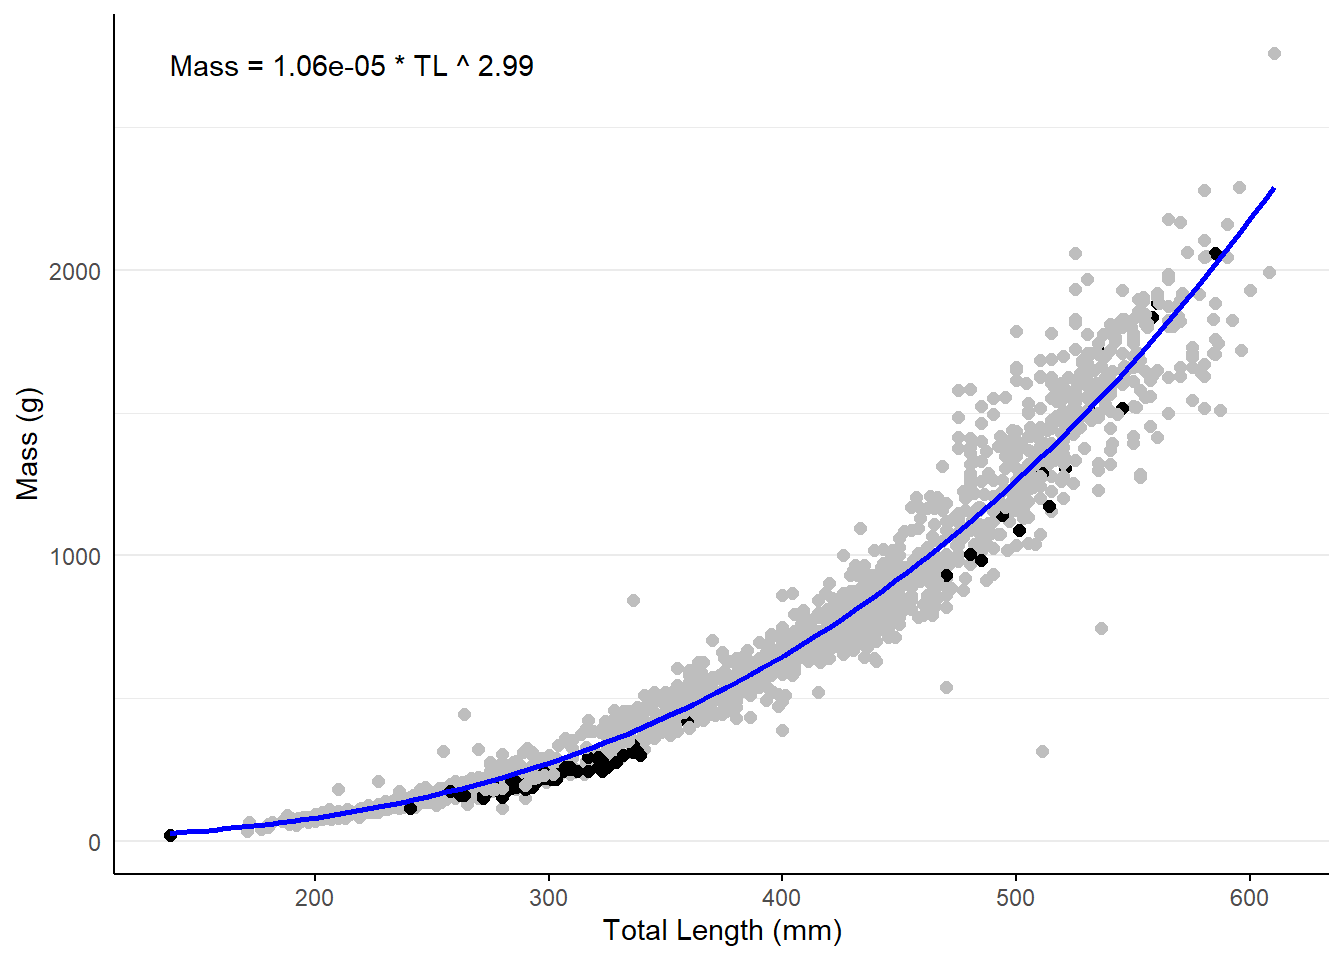
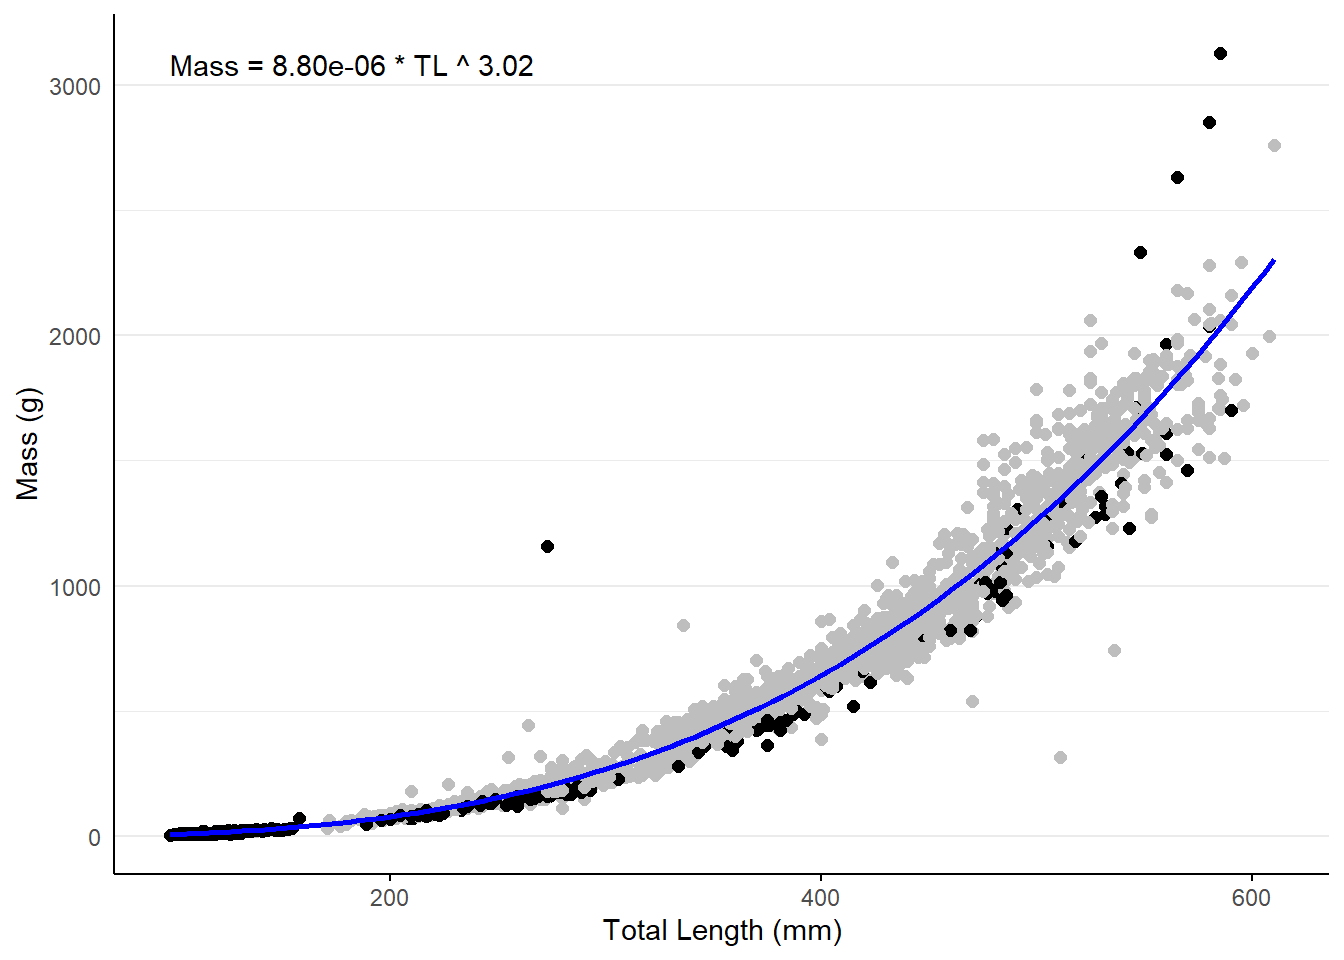
Added new harvest and stocking data for Yuma Cove backwater

diff --git a/BackwaterAnalysis.html b/BackwaterAnalysis.html
@@ -71,12 +71,12 @@ ul.task-list li input[type="checkbox"] {
 
 <section id="introduction" class="level2">
 <h2 class="anchored" data-anchor-id="introduction">Introduction</h2>
-<p>This summary analysis for Yuma Cove backwater is auto-generated and results stated within should be considered preliminary. These results are based on an analysis of stocking, capture, and PIT scanning records starting on 2013-01-01 and ending on 2025-04-25. Several approaches are used to assess the overall status of the population in the backwater. Known survival analysis provides a detailed fish by fish accounting of the fish that are known to be alive in the backwater based on PIT scanning. In backwaters with nearly continuous PIT scanning, these known survivor numbers should be no less than 95% of the actual PIT tagged population, as all fish are provided at a minimum 60 days of PIT scanning regardless of tagging date. Backwater sampling events are used to evaluate recruitment, size class distribution, and proportion of tagged to untagged fish in the backwater. The tagged to untagged proportion is used in conjunction with the known survival analysis to provide point estimates of the adult population size. The biomass of the most recent sampling event is estimated based on capture records and a length-weight relationship established from all backwater capture data. Any reduction of biomass through harvest or mortality is assessed through PIT scanning conducted after the most recent autumn harvest.</p>
+<p>This summary analysis for Yuma Cove backwater is auto-generated and results stated within should be considered preliminary. These results are based on an analysis of stocking, capture, and PIT scanning records starting on 2013-01-01 and ending on 2025-04-25. Several approaches are used to assess the overall status of the population in the backwater. Known survival analysis provides a detailed fish by fish accounting of the fish that are known to be alive in the backwater based on PIT scanning. In backwaters with nearly continuous PIT scanning, these known survivor numbers should be no less than 95% of the actual PIT tagged population, as all fish are provided at a minimum 90 days of PIT scanning regardless of tagging date. Backwater sampling events are used to evaluate recruitment, size class distribution, and proportion of tagged to untagged fish in the backwater. The tagged to untagged proportion is used in conjunction with the known survival analysis to provide point estimates of the adult population size. The biomass of the most recent sampling event is estimated based on capture records and a length-weight relationship established from all backwater capture data. Any reduction of biomass through harvest or mortality is assessed through PIT scanning conducted after the most recent autumn harvest.</p>
 </section>
 <section id="known-survival" class="level2">
 <h2 class="anchored" data-anchor-id="known-survival">Known Survival</h2>
-<p>Known survival analysis uses PIT scanning data to track the number of PIT tagged fish alive in the backwater on any given date. For a fish to be included in the total, it must have been tagged and release prior to the date (x-axis), and it must have been scanned at least once 60 days after it’s release date. This avoids including fish that were scanned within a few days of tagging, but died before contributing significantly to the population. For example, a fish tagged and released on January 1, 2019 will be included in the known population total for every day after January 1, 2019 as long as it was scanned once after May 1, 2019. If it was never scanned again after May 5, 2019, then it will be a part of the known population from January 1, 2019 through May 5, 2019, and removed from the population for all subsequent dates.</p>
-<p>The initial stocking into Yuma Cove backwater on 2013-02-11 consisted of 100 females and 100 males, but only 111 (81 females and 30 males) survived to 60 days post-stocking based on PIT scanning data (<a href="#fig-SurvivalInitialRelease" class="quarto-xref">Figure&nbsp;1</a>). The stair step pattern of known survivors from the initial stocking is indicative of a dramatic decline in survivor numbers over summer months for both sexes. Based on PIT scanning after the most recent spawning season (2024), the remaining known survivors from the initial stocking include 4 females and 2 males. This represents a mean annual survival of 78.4% over 12 years.</p>
+<p>Known survival analysis uses PIT scanning data to track the number of PIT tagged fish alive in the backwater on any given date. For a fish to be included in the total, it must have been tagged and release prior to the date (x-axis), and it must have been scanned at least once 90 days after it’s release date. This avoids including fish that were scanned within a few days of tagging, but died before contributing significantly to the population. For example, a fish tagged and released on January 1, 2019 will be included in the known population total for every day after January 1, 2019 as long as it was scanned once after May 1, 2019. If it was never scanned again after May 5, 2019, then it will be a part of the known population from January 1, 2019 through May 5, 2019, and removed from the population for all subsequent dates.</p>
+<p>The initial stocking into Yuma Cove backwater on 2013-02-11 consisted of 100 females and 100 males, but only 104 (80 females and 24 males) survived to 90 days post-stocking based on PIT scanning data (<a href="#fig-SurvivalInitialRelease" class="quarto-xref">Figure&nbsp;1</a>). The stair step pattern of known survivors from the initial stocking is indicative of a dramatic decline in survivor numbers over summer months for both sexes. Based on PIT scanning after the most recent spawning season (2024), the remaining known survivors from the initial stocking include 4 females and 2 males. This represents a mean annual survival of 78.8% over 12 years.</p>
 <div class="cell">
 <div class="cell-output-display">
 <div id="fig-SurvivalInitialRelease" class="quarto-float quarto-figure quarto-figure-center anchored">
@@ -1846,6 +1846,13 @@ Recaptured
 <td class="gt_row gt_right" headers="N">7</td>
 <td class="gt_row gt_right" headers="Proportion">0.650</td>
 </tr>
+<tr class="odd">
+<td class="gt_row gt_right" headers="Year">2024</td>
+<td class="gt_row gt_left" headers="Month">October</td>
+<td class="gt_row gt_right" headers="Y">26</td>
+<td class="gt_row gt_right" headers="N">40</td>
+<td class="gt_row gt_right" headers="Proportion">0.394</td>
+</tr>
 </tbody>
 </table>
 
@@ -1876,7 +1883,7 @@ Figure&nbsp;4: Adult population estimates based on recapture proportion and know
 </section>
 <section id="estimating-biomass" class="level2">
 <h2 class="anchored" data-anchor-id="estimating-biomass">Estimating Biomass</h2>
-<p>Total length (TL) and mass (g) have been recorded for 1988 fish in Yuma Cove backwater (<a href="#fig-LWPlot" class="quarto-xref">Figure&nbsp;5</a>). The parameters of a length-weight relationship were estimated using maximum likelihood based on these records and was used to estimate mass for fish when TL was recorded but mass was not. One potential consequence of overcrowding in a backwater and subsequent resource limitation is that the length-weight relationship might change over time. However, this was not the in Yuma Cove backwater as the length-weight relationship was consistent regardless of year (<a href="#fig-LWPlot" class="quarto-xref">Figure&nbsp;5</a>); most recent measurements in black.</p>
+<p>Total length (TL) and mass (g) have been recorded for 2354 fish in Yuma Cove backwater (<a href="#fig-LWPlot" class="quarto-xref">Figure&nbsp;5</a>). The parameters of a length-weight relationship were estimated using maximum likelihood based on these records and was used to estimate mass for fish when TL was recorded but mass was not. One potential consequence of overcrowding in a backwater and subsequent resource limitation is that the length-weight relationship might change over time. However, this was not the in Yuma Cove backwater as the length-weight relationship was consistent regardless of year (<a href="#fig-LWPlot" class="quarto-xref">Figure&nbsp;5</a>); most recent measurements in black.</p>
 <div class="cell">
 <div class="cell-output-display">
 <div id="fig-LWPlot" class="quarto-float quarto-figure quarto-figure-center anchored">
@@ -1891,7 +1898,7 @@ Figure&nbsp;5: Length-weight relationship based on all capture and release recor
 </div>
 </div>
 </div>
-<p>Total biomass of the most recent autumn sampling event 2023 was calculated in kilograms (kg) from individual mass as measured when available or mass estimates based on the length-weight relationship (<a href="#tbl-RecentBiomassGT" class="quarto-xref">Table&nbsp;4</a>). Harvest and mortality reduced the available biomass post-sampling, and so the available biomass from surveyed fish was calculated based on recent PIT scanning (contacted at least once in the current year).</p>
+<p>Total biomass of the most recent autumn sampling event 2024 was calculated in kilograms (kg) from individual mass as measured when available or mass estimates based on the length-weight relationship (<a href="#tbl-RecentBiomassGT" class="quarto-xref">Table&nbsp;4</a>). Harvest and mortality reduced the available biomass post-sampling, and so the available biomass from surveyed fish was calculated based on recent PIT scanning (contacted at least once in the current year).</p>
 <div class="cell">
 <div id="tbl-RecentBiomassGT" class="cell quarto-float quarto-figure quarto-figure-center anchored">
 <figure class="quarto-float quarto-float-tbl figure">
@@ -2350,7 +2357,7 @@ Table&nbsp;4: Biomass estimate from recent autumn sample and surviving biomass f
 }
 </style>
 
-<table class="gt_table do-not-create-environment cell caption-top table table-sm table-striped small" data-quarto-postprocess="true" data-quarto-disable-processing="false" data-quarto-bootstrap="false">
+<table class="gt_table do-not-create-environment cell caption-top" data-quarto-postprocess="true" data-quarto-disable-processing="false" data-quarto-bootstrap="false">
 <thead>
 <tr class="gt_col_headings header">
 <th id="SizeClass" class="gt_col_heading gt_columns_bottom_border gt_right" data-quarto-table-cell-role="th" scope="col">SizeClass</th>
@@ -2362,30 +2369,6 @@ Table&nbsp;4: Biomass estimate from recent autumn sample and surviving biomass f
 </tr>
 </thead>
 <tbody class="gt_table_body">
-<tr class="odd">
-<td class="gt_row gt_right" headers="SizeClass">1</td>
-<td class="gt_row gt_right" headers="Mean TL (mm)">154</td>
-<td class="gt_row gt_right" headers="Biomass (kg)">16.148</td>
-<td class="gt_row gt_right" headers="Count">266</td>
-<td class="gt_row gt_right" headers="Alive">1</td>
-<td class="gt_row gt_right" headers="Alive Biomass (kg)">0.245</td>
-</tr>
-<tr class="even">
-<td class="gt_row gt_right" headers="SizeClass">2</td>
-<td class="gt_row gt_right" headers="Mean TL (mm)">467</td>
-<td class="gt_row gt_right" headers="Biomass (kg)">6.798</td>
-<td class="gt_row gt_right" headers="Count">7</td>
-<td class="gt_row gt_right" headers="Alive">2</td>
-<td class="gt_row gt_right" headers="Alive Biomass (kg)">1.648</td>
-</tr>
-<tr class="odd">
-<td class="gt_row gt_right" headers="SizeClass">3</td>
-<td class="gt_row gt_right" headers="Mean TL (mm)">536</td>
-<td class="gt_row gt_right" headers="Biomass (kg)">20.310</td>
-<td class="gt_row gt_right" headers="Count">13</td>
-<td class="gt_row gt_right" headers="Alive">3</td>
-<td class="gt_row gt_right" headers="Alive Biomass (kg)">5.145</td>
-</tr>
 </tbody>
 </table>
 
@@ -2395,7 +2378,7 @@ Table&nbsp;4: Biomass estimate from recent autumn sample and surviving biomass f
 </figure>
 </div>
 </div>
-<p>This biomass estimate isn’t the total population biomass. The known population in the backwater is 90 fish, and the estimated total population is 546. 92% of the known population has been at large for more than 3 years, (83 out of 90 fish, <a href="#tbl-CurrentKnownGT" class="quarto-xref">Table&nbsp;1</a>). It is likely that most if not all of those fish are Size Class 3 adults.</p>
+<p>This biomass estimate isn’t the total population biomass. The known population in the backwater is 90 fish, and the estimated total population is 164. 92% of the known population has been at large for more than 3 years, (83 out of 90 fish, <a href="#tbl-CurrentKnownGT" class="quarto-xref">Table&nbsp;1</a>). It is likely that most if not all of those fish are Size Class 3 adults.</p>
 </section>
 
 </main>

diff --git a/output/AdultRecaptureProportion Yuma Cove backwater.html b/output/AdultRecaptureProportion Yuma Cove backwater.html
@@ -542,6 +542,11 @@
 <td headers="Y" class="gt_row gt_right">13</td>
 <td headers="N" class="gt_row gt_right">7</td>
 <td headers="Proportion" class="gt_row gt_right">0.650</td></tr>
+    <tr><td headers="Year" class="gt_row gt_right">2024</td>
+<td headers="Month" class="gt_row gt_left">October</td>
+<td headers="Y" class="gt_row gt_right">26</td>
+<td headers="N" class="gt_row gt_right">40</td>
+<td headers="Proportion" class="gt_row gt_right">0.394</td></tr>
   </tbody>
   
   
